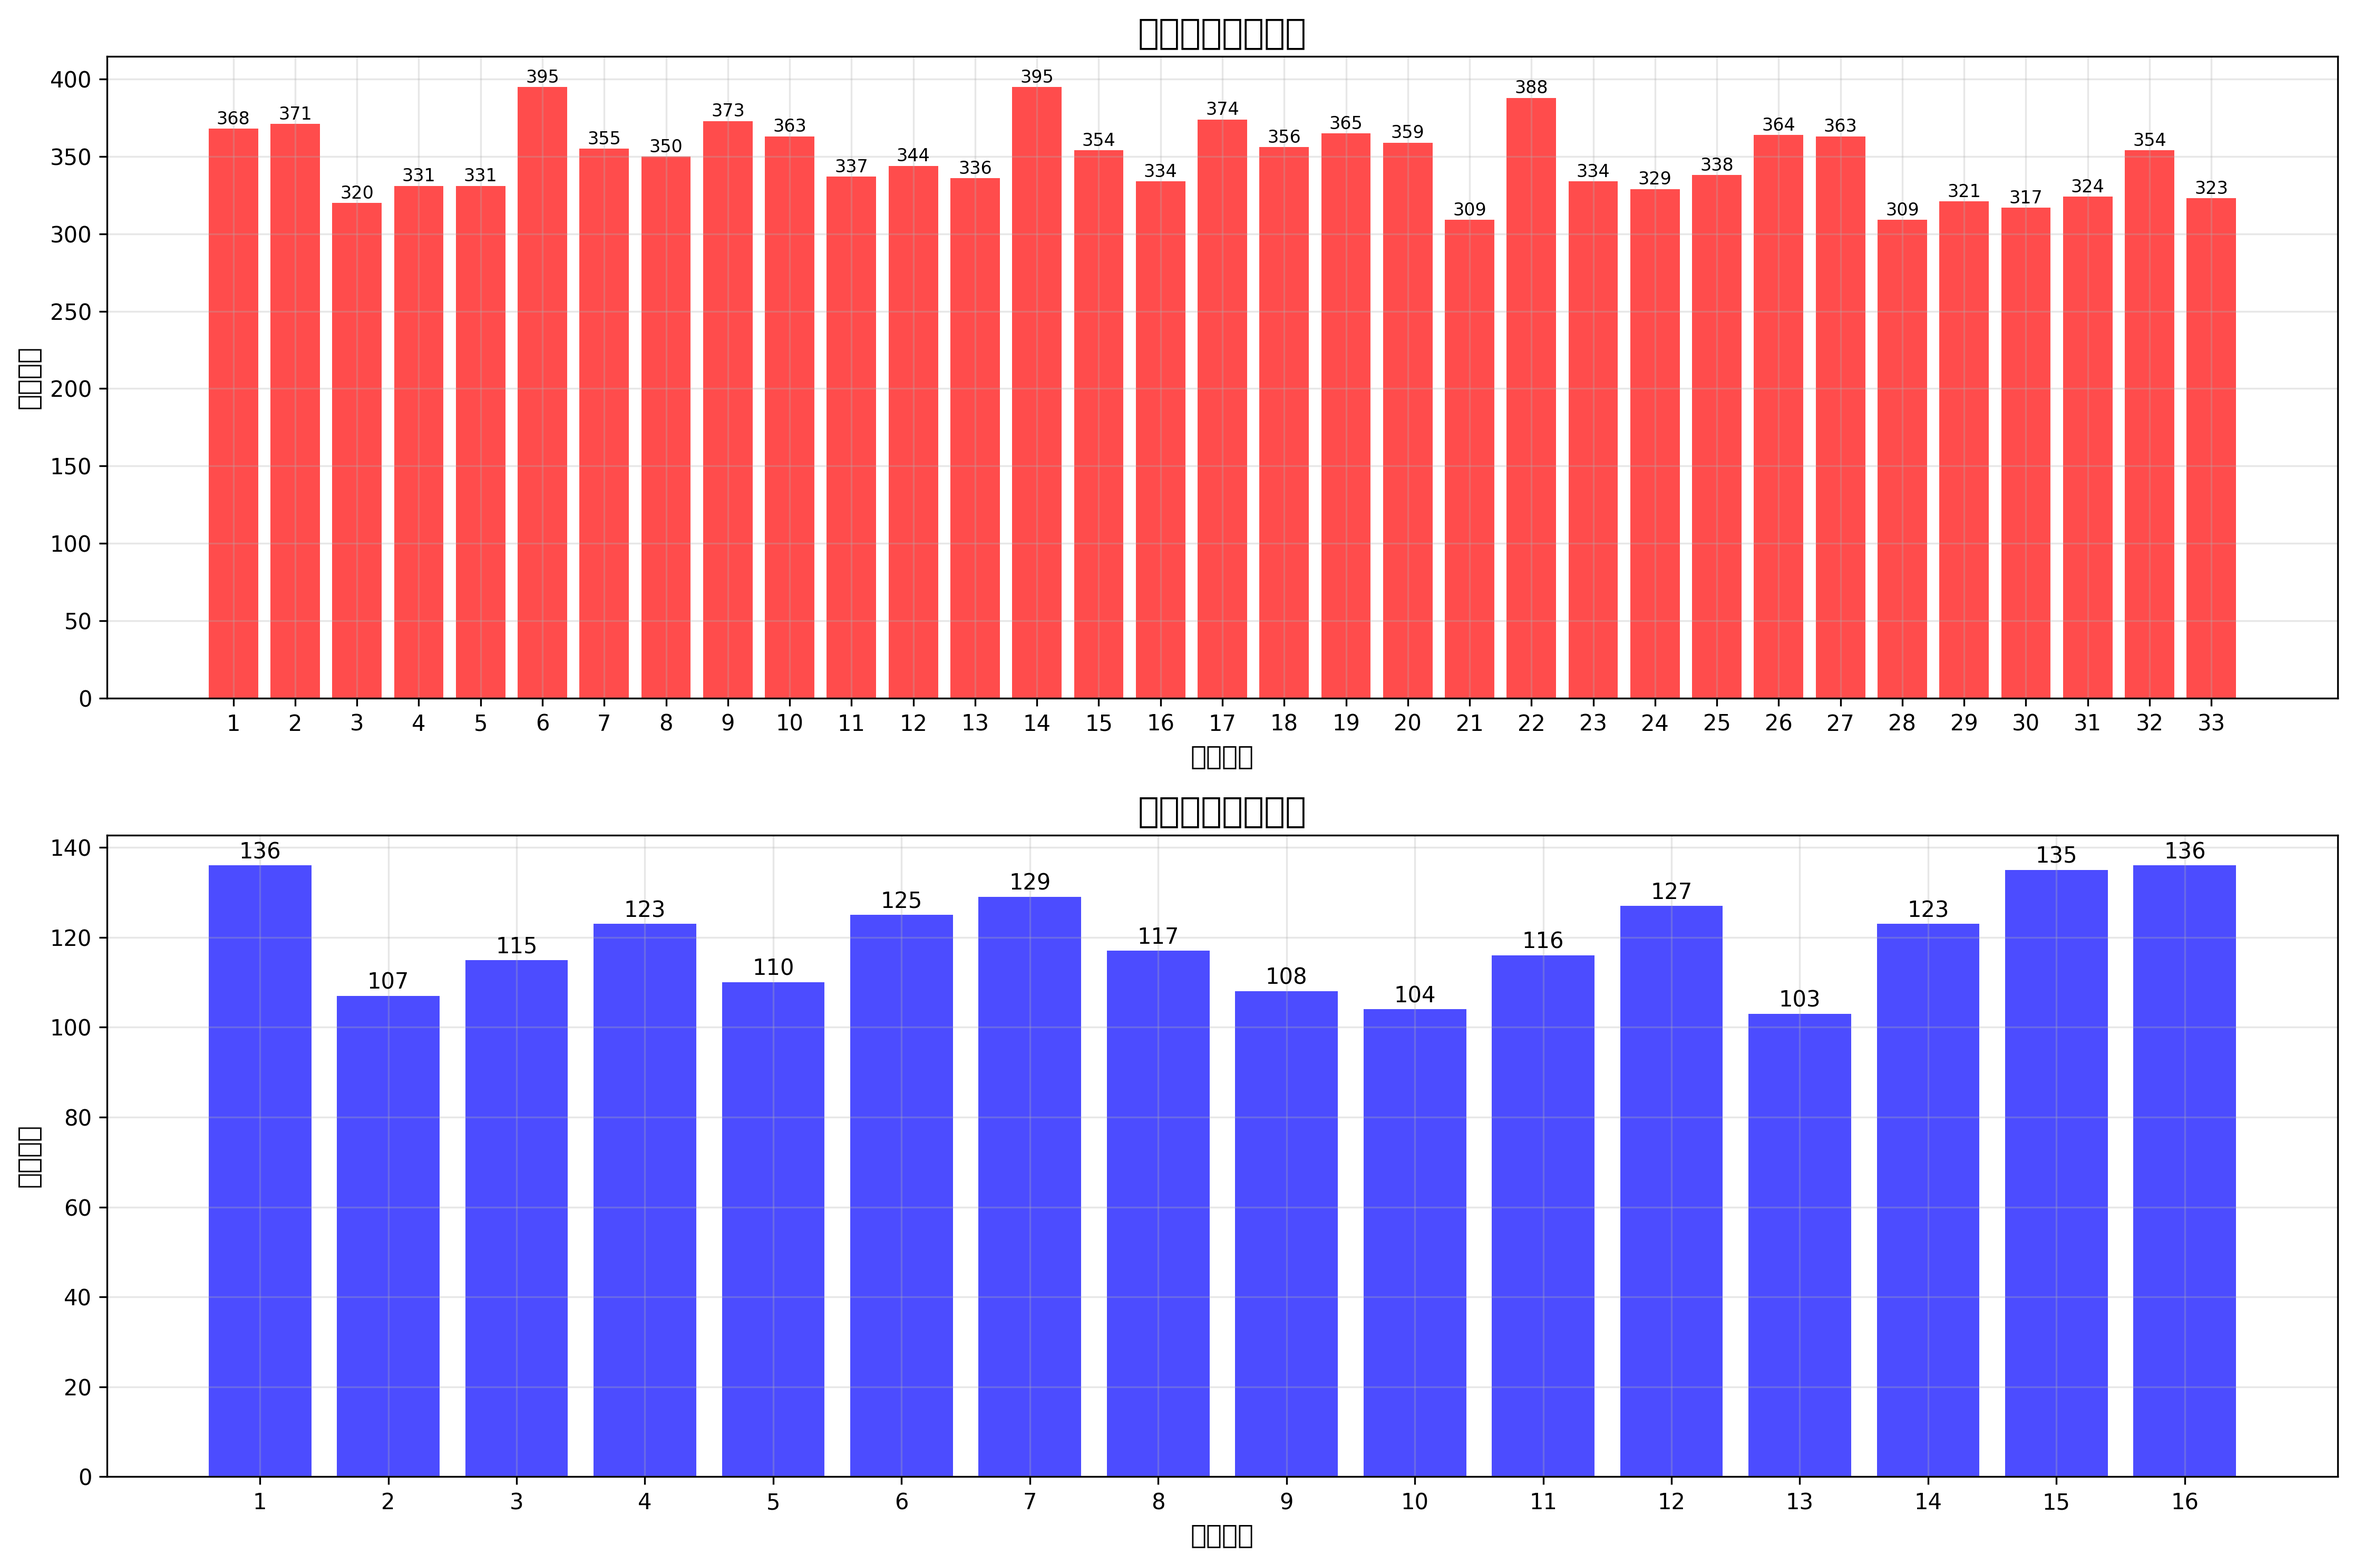
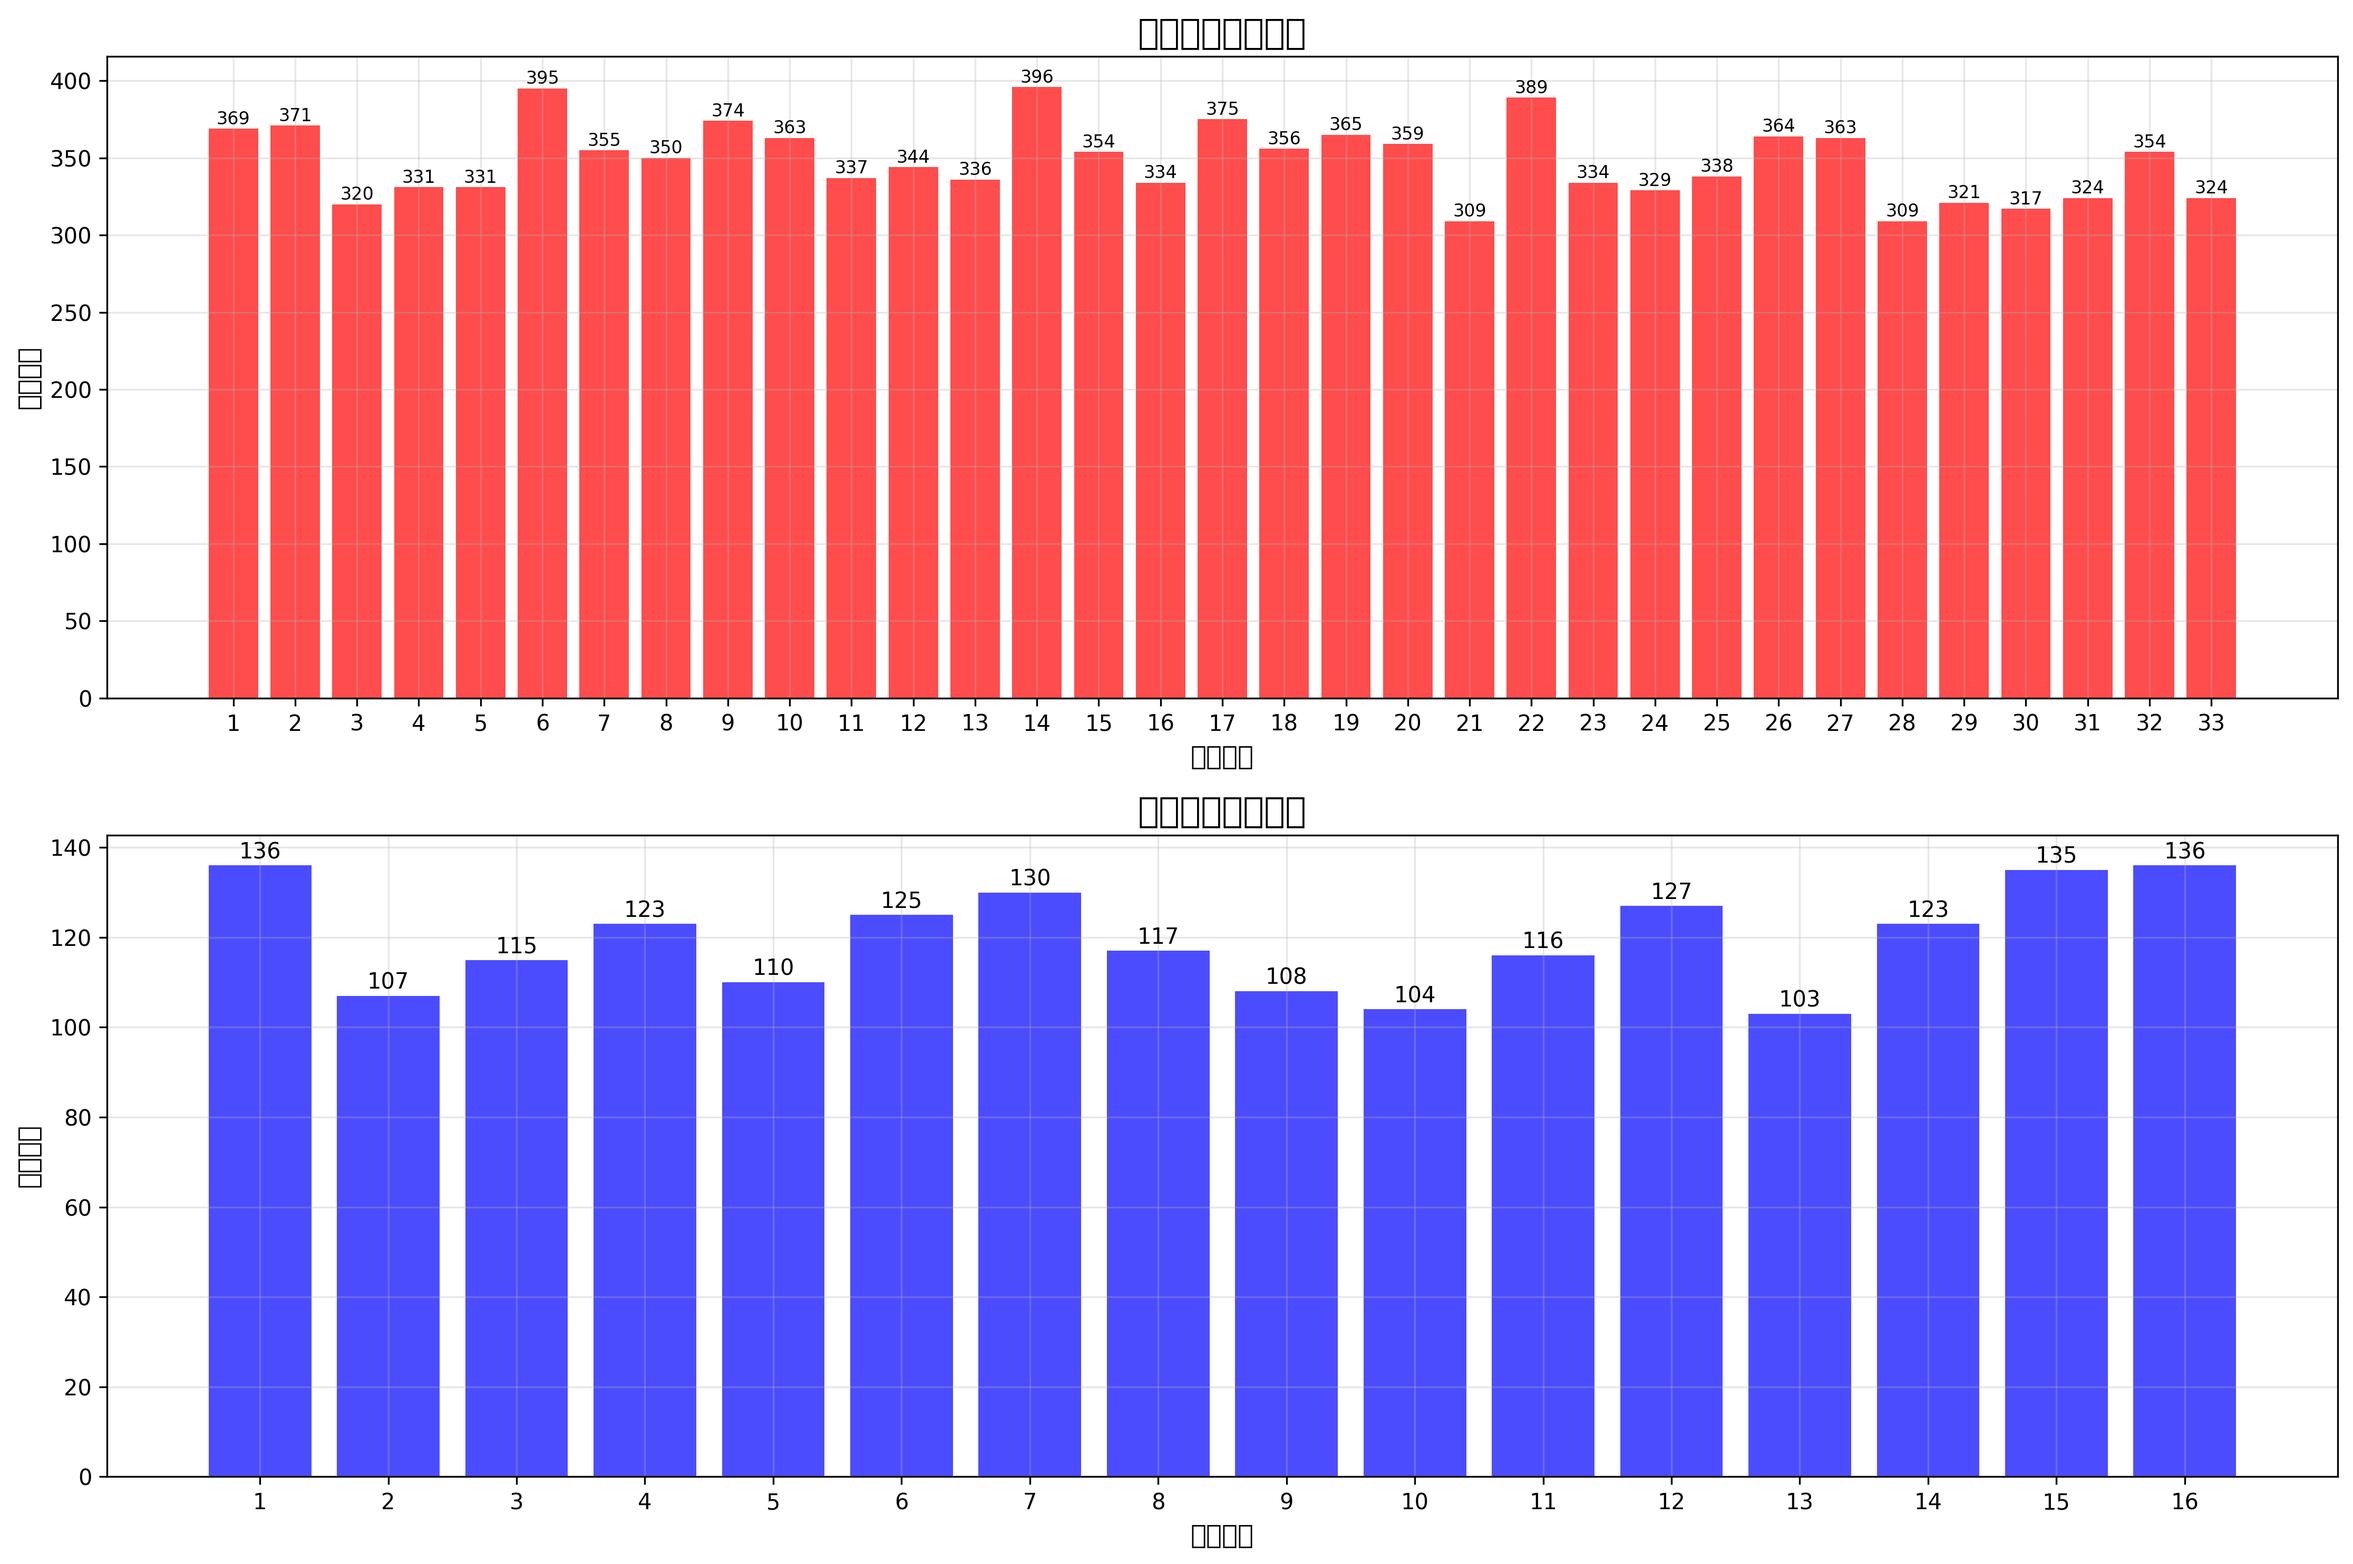
🎯 更新彩票数据和分析报告 - 2025-09-18 23:26:42 (UTC+8)

Changed region(s): [[0.8096, 0.124, 0.8407, 0.155], [0.4359, 0.558, 0.4671, 0.5889], [0.3114, 0.062, 0.3425, 0.093]]

diff --git a/reports/analysis_report.md b/reports/analysis_report.md
@@ -1,9 +1,9 @@
 # 🎯 双色球数据分析报告
 
 ## 📊 报告信息
-- **生成时间**: 2025年09月17日 23:26:38 (UTC+8)
-- **数据期数**: 共 1914 期
-- **最新期号**: 2025107
+- **生成时间**: 2025年09月18日 23:26:42 (UTC+8)
+- **数据期数**: 共 1915 期
+- **最新期号**: 2025108
 - **数据来源**: 中国福利彩票官方API
 
 ## ⚠ 重要免责声明
@@ -15,6 +15,8 @@
 
 ### 最近5期开奖号码
 
+**2025108期** (2025-09-18): 01 09 14 17 22 33 + **07**
+
 **2025107期** (2025-09-16): 02 03 10 15 25 33 + **13**
 
 **2025106期** (2025-09-14): 04 05 17 22 26 30 + **04**
@@ -22,8 +24,6 @@
 **2025105期** (2025-09-11): 04 07 18 24 26 28 + **08**
 
 **2025104期** (2025-09-09): 02 05 15 16 24 32 + **16**
-
-**2025103期** (2025-09-07): 13 16 21 25 28 31 + **16**
 
 ---
 
@@ -33,18 +33,18 @@
 
 | 排名 | 号码 | 出现次数 | 出现频率 |
 |------|------|----------|----------|
-| 01 | **14** | 395 | 20.6% |
+| 01 | **14** | 396 | 20.7% |
 | 02 | **06** | 395 | 20.6% |
-| 03 | **22** | 388 | 20.3% |
-| 04 | **17** | 374 | 19.5% |
-| 05 | **09** | 373 | 19.5% |
+| 03 | **22** | 389 | 20.3% |
+| 04 | **17** | 375 | 19.6% |
+| 05 | **09** | 374 | 19.5% |
 | 06 | **02** | 371 | 19.4% |
-| 07 | **01** | 368 | 19.2% |
+| 07 | **01** | 369 | 19.3% |
 | 08 | **19** | 365 | 19.1% |
 | 09 | **26** | 364 | 19.0% |
 | 10 | **10** | 363 | 19.0% |
 | 11 | **27** | 363 | 19.0% |
-| 12 | **20** | 359 | 18.8% |
+| 12 | **20** | 359 | 18.7% |
 | 13 | **18** | 356 | 18.6% |
 | 14 | **07** | 355 | 18.5% |
 | 15 | **15** | 354 | 18.5% |
@@ -55,8 +55,8 @@
 |------|------|----------|----------|
 | 01 | **16** | 136 | 7.1% |
 | 02 | **01** | 136 | 7.1% |
-| 03 | **15** | 135 | 7.1% |
-| 04 | **07** | 129 | 6.7% |
+| 03 | **15** | 135 | 7.0% |
+| 04 | **07** | 130 | 6.8% |
 | 05 | **12** | 127 | 6.6% |
 | 06 | **06** | 125 | 6.5% |
 | 07 | **04** | 123 | 6.4% |
@@ -73,7 +73,7 @@
 | 分布类型 | 出现次数 | 出现频率 |
 |----------|----------|----------|
 | 3奇3偶 | 676 | 35.3% |
-| 4奇2偶 | 477 | 24.9% |
+| 4奇2偶 | 478 | 25.0% |
 | 2奇4偶 | 457 | 23.9% |
 | 5奇1偶 | 145 | 7.6% |
 | 1奇5偶 | 118 | 6.2% |
@@ -92,7 +92,7 @@
 | 60-69 | 85 | 4.4% |
 | 70-79 | 165 | 8.6% |
 | 80-89 | 267 | 13.9% |
-| 90-99 | 337 | 17.6% |
+| 90-99 | 338 | 17.7% |
 | 100-109 | 355 | 18.5% |
 | 110-119 | 306 | 16.0% |
 | 120-129 | 185 | 9.7% |
@@ -112,7 +112,7 @@
 | 15-19 | 275 | 14.4% |
 | 20-24 | 575 | 30.0% |
 | 25-29 | 720 | 37.6% |
-| 30-34 | 268 | 14.0% |
+| 30-34 | 269 | 14.0% |
 
 
 ---
@@ -123,6 +123,7 @@
 
 | 期号 | 开奖日期 | 红球号码 | 蓝球 |
 |------|----------|----------|------|
+| 2025108 | 2025-09-18 | 01 09 14 17 22 33 | **07** |
 | 2025107 | 2025-09-16 | 02 03 10 15 25 33 | **13** |
 | 2025106 | 2025-09-14 | 04 05 17 22 26 30 | **04** |
 | 2025105 | 2025-09-11 | 04 07 18 24 26 28 | **08** |
@@ -132,14 +133,13 @@
 | 2025101 | 2025-09-02 | 05 08 09 10 16 21 | **05** |
 | 2025100 | 2025-08-31 | 12 16 17 25 30 31 | **16** |
 | 2025099 | 2025-08-28 | 09 11 15 17 22 26 | **14** |
-| 2025098 | 2025-08-26 | 05 08 13 17 18 29 | **02** |
 
 
 ### 热号分析
 
-**最近10期红球热号（出现2次及以上）**: 02 04 05 08 09 10 13 15 16 17 18 21 22 24 25 26 28 30 31
+**最近10期红球热号（出现2次及以上）**: 02 04 05 09 10 15 16 17 18 21 22 24 25 26 28 30 31 33
 
-**最近10期蓝球热号（出现2次及以上）**: 16
+**最近10期蓝球热号（出现2次及以上）**: 07 16
 
 ---
 
@@ -167,12 +167,12 @@
 - 特征: 5奇1偶 | 和值:93 | 跨度:26
 - 说明: 超高频号码的激进组合
 
-**推荐组合 6** (低频反选): 05 08 12 22 24 31 + **12**
-- 特征: 2奇4偶 | 和值:102 | 跨度:26
+**推荐组合 6** (低频反选): 05 08 12 22 24 33 + **12**
+- 特征: 2奇4偶 | 和值:104 | 跨度:28
 - 说明: 低频号码的反向思维组合
 
-**推荐组合 7** (随机均衡): 02 04 06 12 18 33 + **15**
-- 特征: 1奇5偶 | 和值:75 | 跨度:31
+**推荐组合 7** (随机均衡): 02 04 06 12 18 31 + **15**
+- 特征: 1奇5偶 | 和值:73 | 跨度:29
 - 说明: 各频段随机均衡组合
 
 **推荐组合 8** (奇偶优化): 01 04 08 16 17 27 + **01**
@@ -222,6 +222,6 @@
 
 ---
 
-*报告生成时间: 2025年09月17日 23:26:38 (UTC+8)*  
+*报告生成时间: 2025年09月18日 23:26:42 (UTC+8)*  
 *数据来源: 中国福利彩票官方网站*  
 *仅供学习研究使用，请理性购彩*
